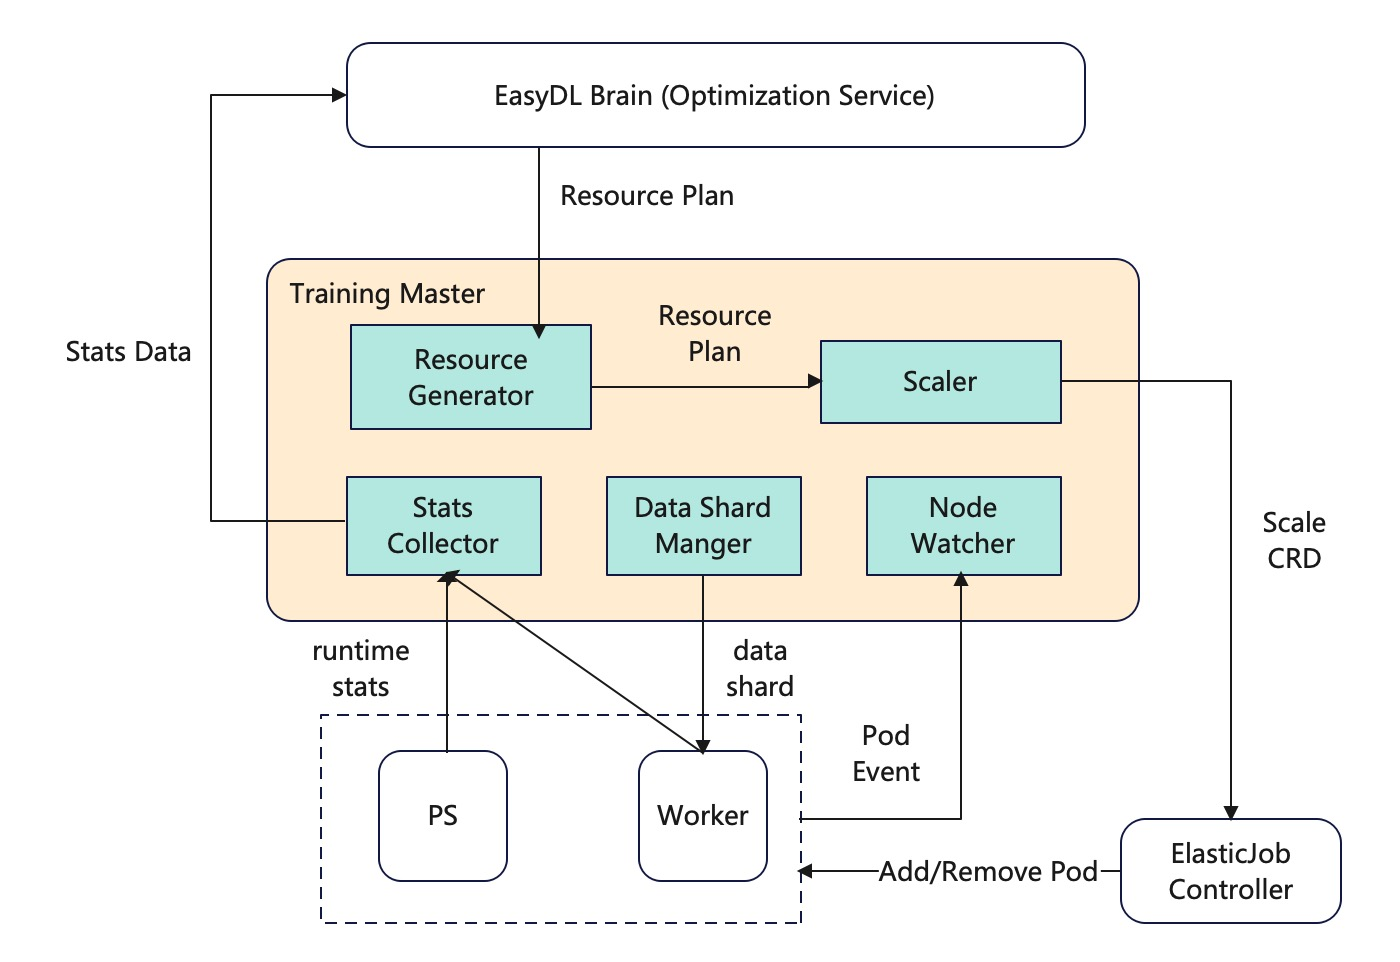
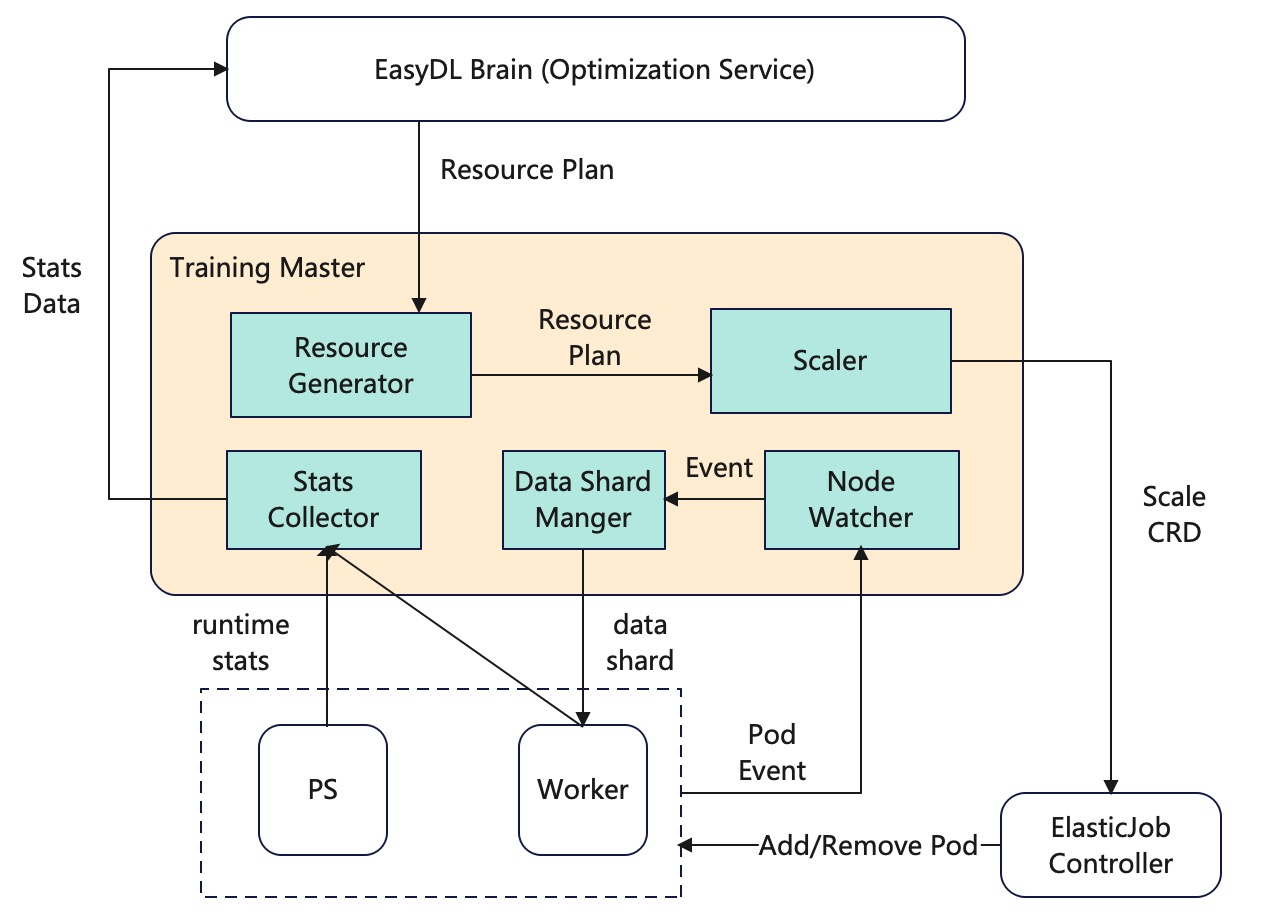
Update the figure of master

diff --git a/docs/design/easydl-master.md b/docs/design/easydl-master.md
@@ -21,7 +21,7 @@ The training master contains 5 components:
 - Scaler: it generates Scale CRDs according to scaling plans.
 - Stats Collector: it collects the runtime statistics for the job, including
 the resource usage of each Node, training throughput and the global step.
-- Data Shard Manager: it split the training dataset into shards and dispatch
+- Data Shard Manager: it splites the training dataset into shards and dispatches
 shards to workers. Each shard only contains indices of training samples not
 the data of samples.
 - Node Watcher: it watches events of nodes and notifies Data Shard Manager to
@@ -31,7 +31,7 @@ of OOM nodes.
 The design of the training master is shown as
 
 <div align="center">
-<img src="../figures/training-master" alt="Editor" width="500">
+<img src="../figures/training-master-arch.jpg" alt="Editor" width="500">
 </div>
 
 ## Interface Detail of Components
